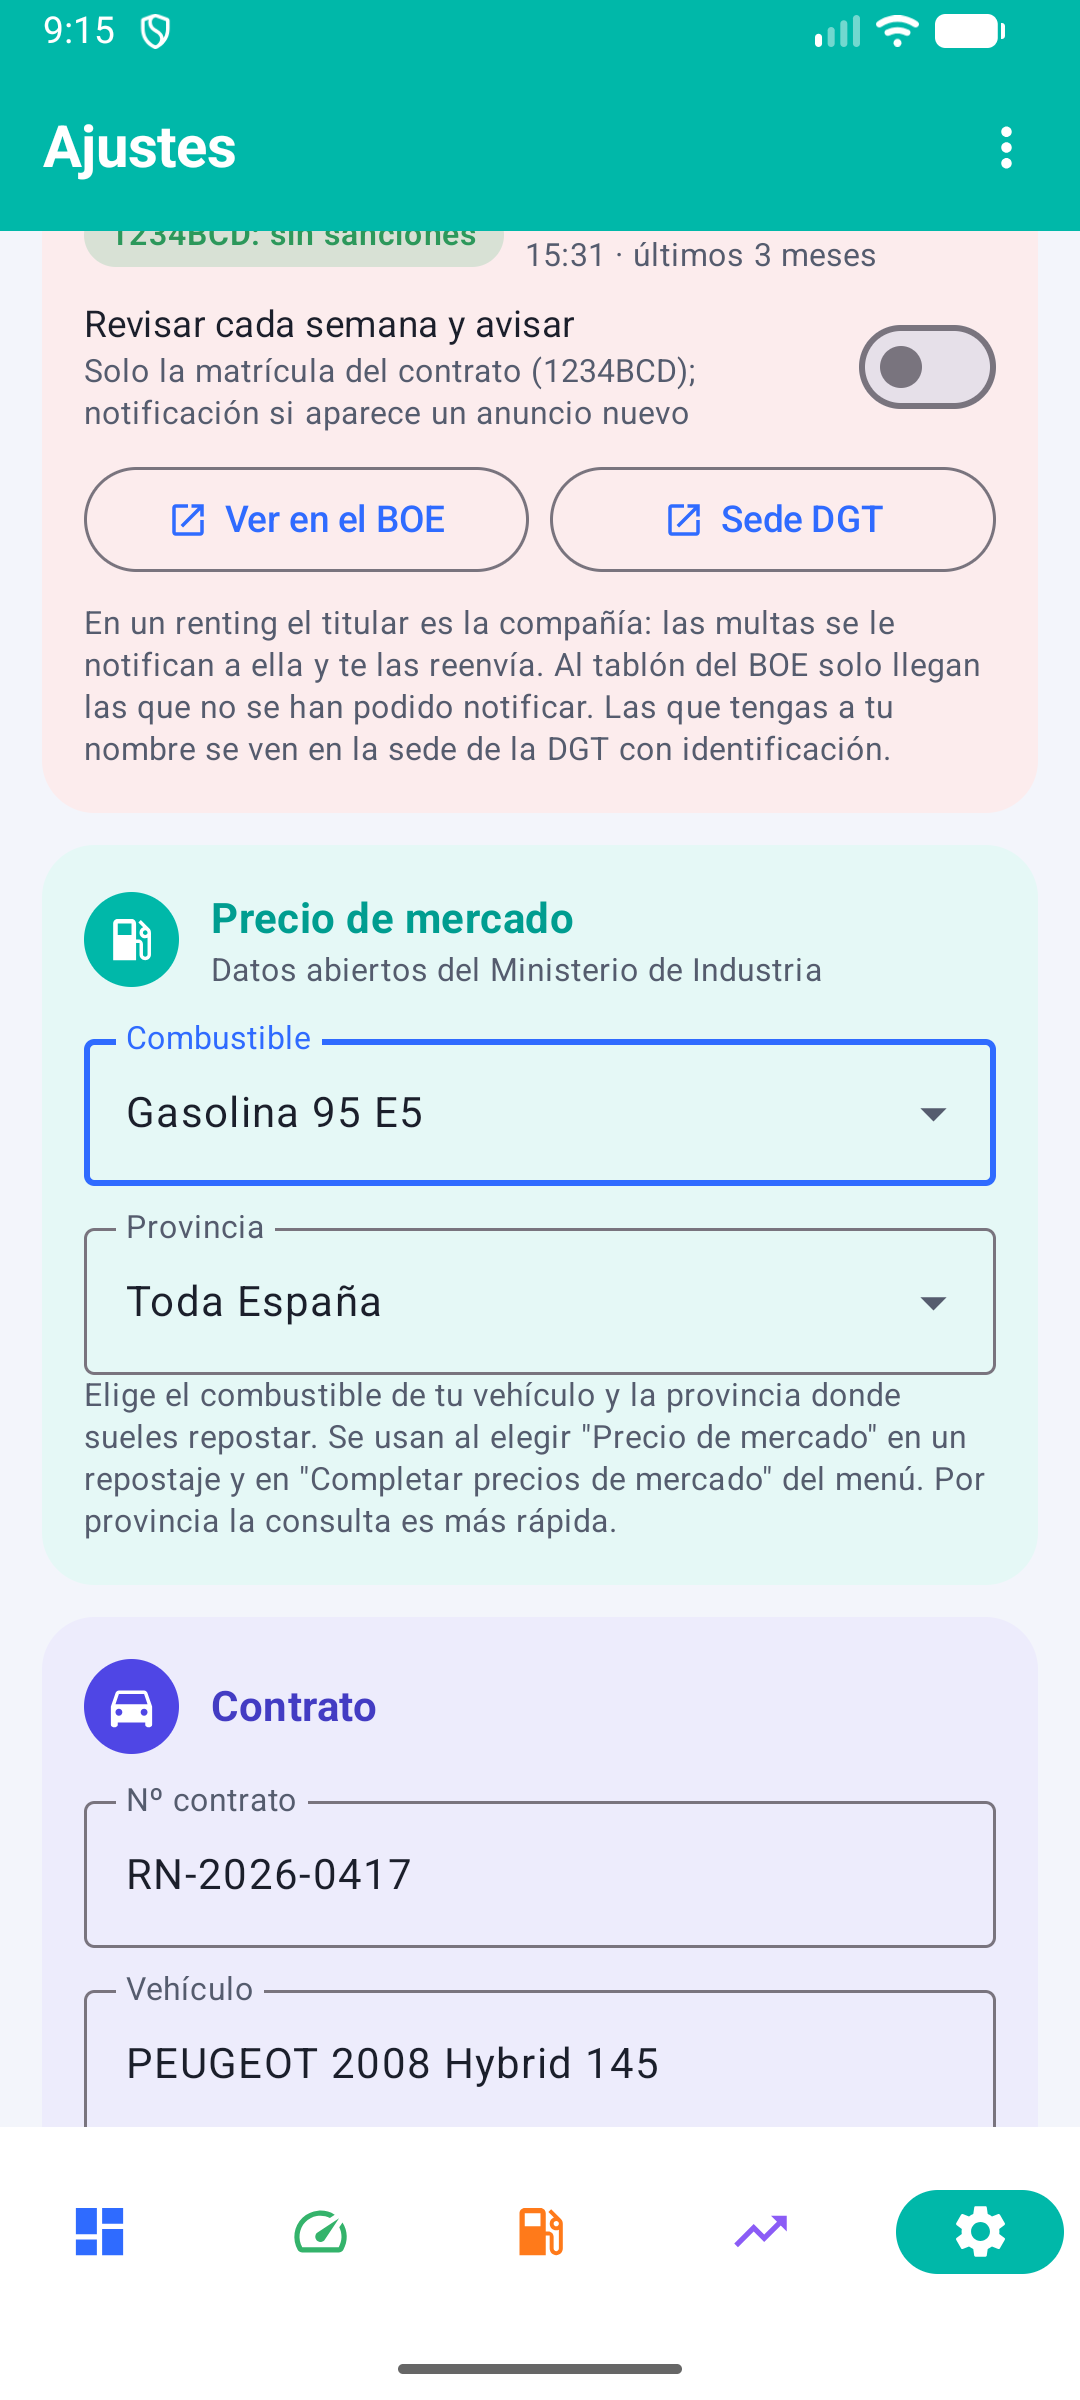
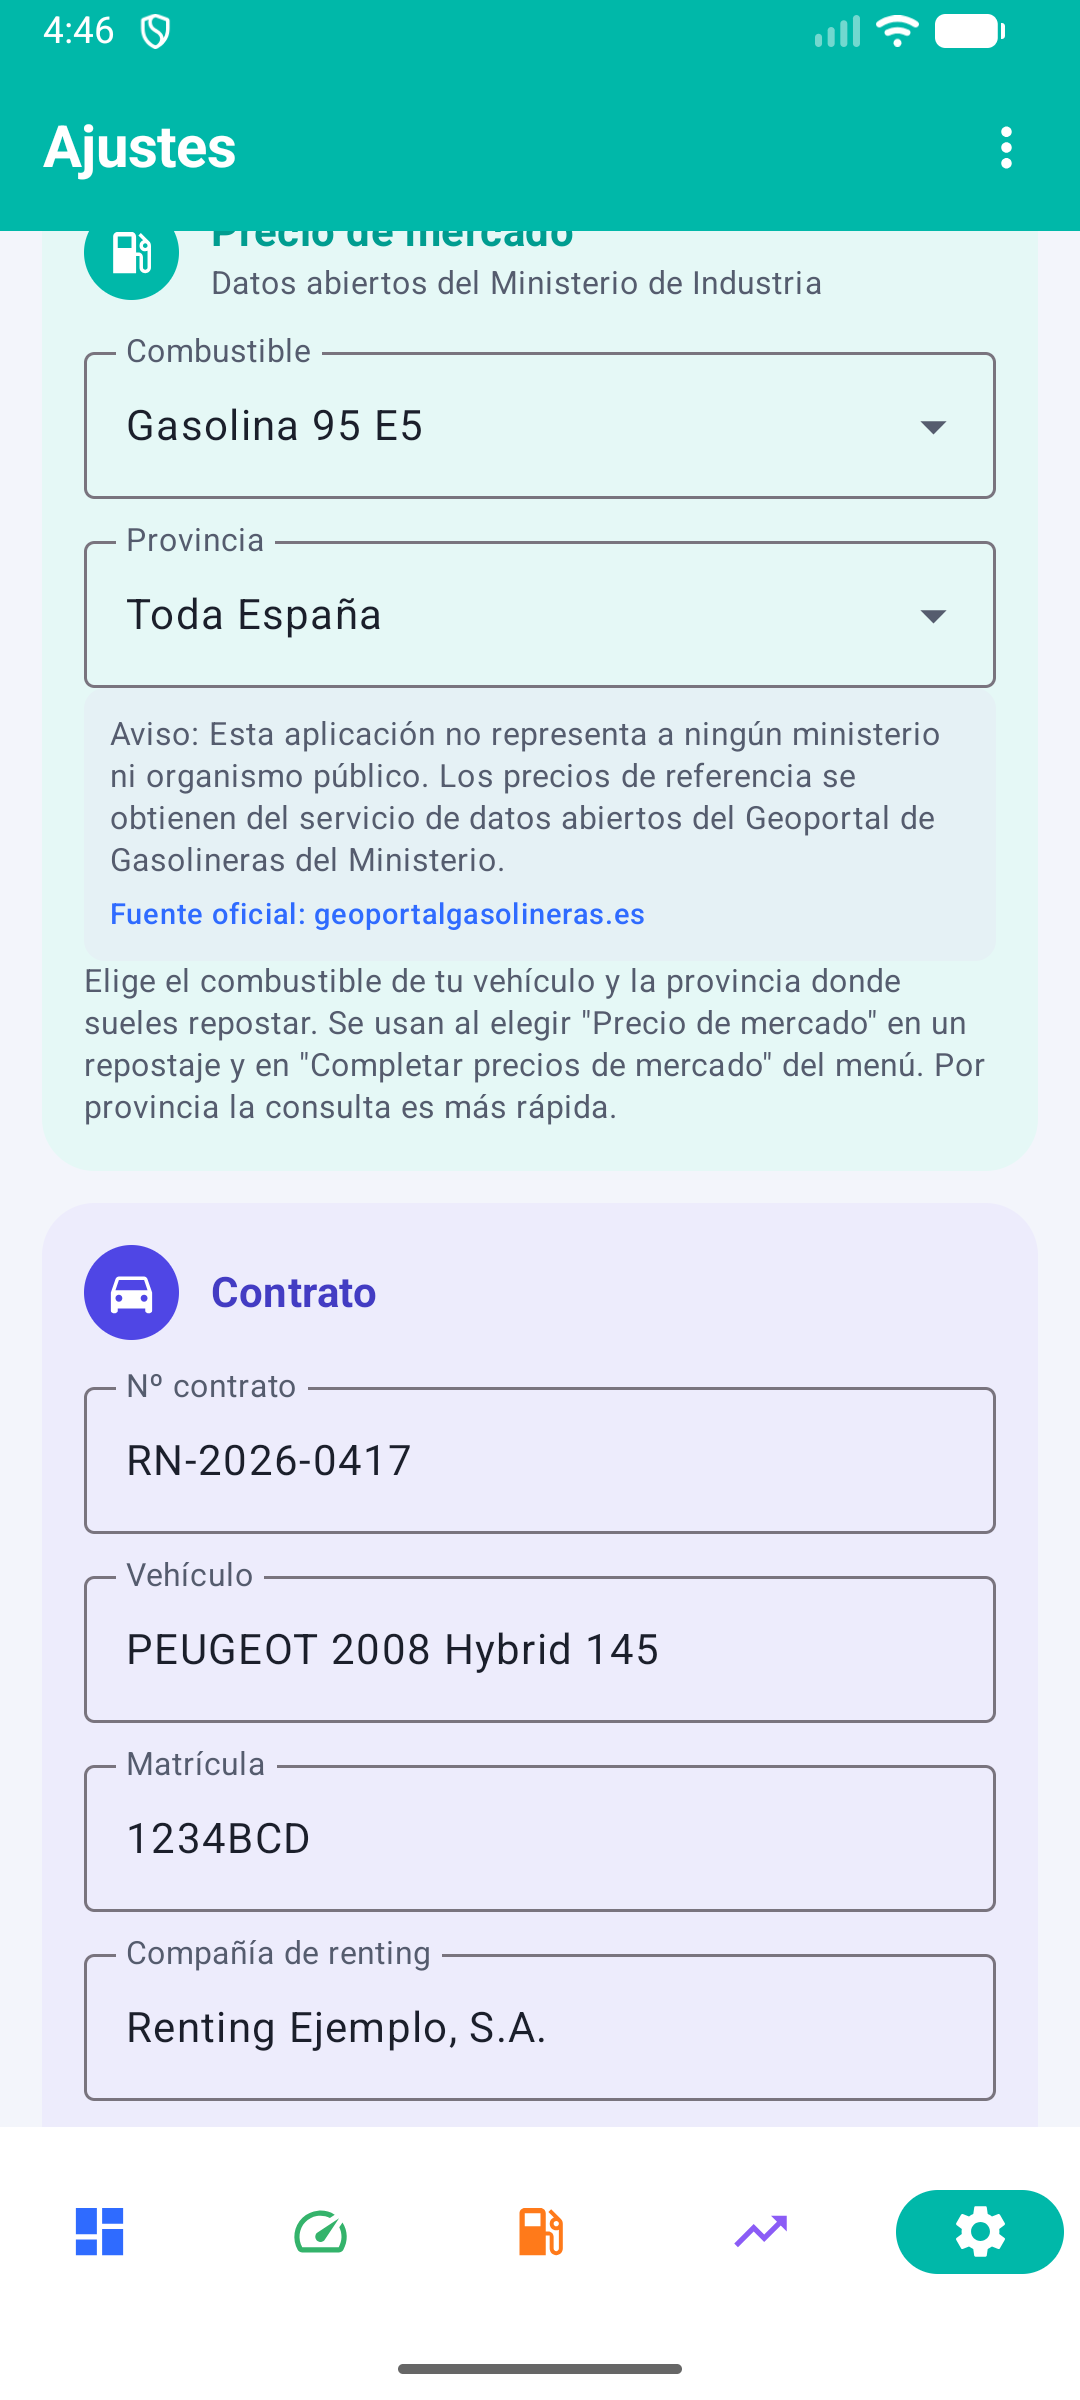
Versión 1.2.1: manual, web y capturas actualizados
- Manual: llamadas por el marcador (sin permiso de teléfono), nuevo apartado 10.5
  Aviso legal y fuentes, capturas de menú, multas y precio de mercado con los avisos.
- docs_web.py incorpora los cambios hechos a mano en docs/index.html (aviso de app
  independiente, fuentes oficiales) y lee la versión de build.gradle.kts.

diff --git a/docs/index.html b/docs/index.html
@@ -76,7 +76,7 @@
         </a>
         <a class="btn pdf" href="https://github.com/manursan2026/seguimiento-renting/releases/latest/download/Manual_Seguimiento_Renting.pdf" download>
           <svg viewBox="0 0 24 24" fill="currentColor"><path d="M14 2H6a2 2 0 0 0-2 2v16a2 2 0 0 0 2 2h12a2 2 0 0 0 2-2V8l-6-6zm-1 7V3.5L18.5 9H13zM8 13h8v2H8v-2zm0 4h8v2H8v-2z"/></svg>
-          <span>Manual de usuario<small>PDF · 4.2 MB</small></span>
+          <span>Manual de usuario<small>PDF · 4.3 MB</small></span>
         </a>
       </div>
     </div>
@@ -134,9 +134,10 @@
     <li>Si Android lo pide, permite <strong>instalar aplicaciones de esta fuente</strong> (navegador o gestor de archivos). Es una pregunta habitual para cualquier app fuera de Google Play.</li>
     <li>Pulsa <strong>Instalar</strong>. Al abrir la app por primera vez, ve a <strong>Ajustes</strong> y rellena los datos de tu contrato; hasta entonces no se pueden añadir mediciones.</li>
   </ol>
-  <div class="nota" style="margin-top:16px">Seguimiento Renting es una aplicación independiente de uso privado y <strong>no representa a ninguna entidad pública</strong> (como el BOE o la DGT). Solo usa Internet para consultar datos públicos abiertos de combustible (<a href="https://geoportalgasolineras.es/" target="_blank" rel="noopener">geoportalgasolineras.es</a>) y notificaciones públicas en el <a href="https://www.boe.es/tablon_edictal_unico/" target="_blank" rel="noopener">Tablón Edictal Único del BOE</a>.</div>
+  <div class="nota" style="margin-top:16px">Si Play Protect muestra un aviso, elige <em>Instalar de todos modos</em>. La app no requiere cuenta ni contiene anuncios.</div>
+  <div class="nota" style="margin-top:12px">Seguimiento Renting es una aplicación independiente de uso privado y <strong>no representa a ninguna entidad pública</strong> (como el BOE o la DGT). Solo usa Internet para consultar datos públicos abiertos de combustible (<a href="https://geoportalgasolineras.es/" target="_blank" rel="noopener">geoportalgasolineras.es</a>) y notificaciones públicas en el <a href="https://www.boe.es/tablon_edictal_unico/" target="_blank" rel="noopener">Tablón Edictal Único del BOE</a>.</div>
   <div class="req">
-    <span>Android 8.0+</span><span>Versión 1.2.1</span><span>Sin anuncios</span><span>Datos solo en tu dispositivo</span>
+    <span>Android 8.0+</span><span>Versión 1.2.1</span><span>22 MB</span><span>Sin anuncios</span><span>Datos solo en tu dispositivo</span>
   </div>
 </section>
 
@@ -146,12 +147,12 @@
   <div class="dl">
     <div class="card">
       <h3><i style="background:var(--amarillo);color:#1F2937">📱</i>Aplicación Android</h3>
-      <p>Fichero de instalación <code>SeguimientoRenting.apk</code> · versión 1.2.1</p>
+      <p>Fichero de instalación <code>SeguimientoRenting.apk</code> · versión 1.2.1 · 22 MB</p>
       <a class="btn apk" href="https://github.com/manursan2026/seguimiento-renting/releases/latest/download/SeguimientoRenting.apk" download>Descargar APK</a>
     </div>
     <div class="card">
       <h3><i style="background:var(--azul)">📘</i>Manual de usuario</h3>
-      <p>Guía completa con capturas de todas las pantallas · PDF</p>
+      <p>Guía completa con capturas de todas las pantallas · PDF · 4.3 MB</p>
       <a class="btn pdf" href="https://github.com/manursan2026/seguimiento-renting/releases/latest/download/Manual_Seguimiento_Renting.pdf" download>Descargar manual (PDF)</a>
     </div>
   </div>
@@ -161,7 +162,7 @@
 </main>
 
 <footer>
-  <div class="wrap">Seguimiento Renting · versión 1.2.1 · Esta aplicación no representa a ninguna entidad pública.<br>Fuentes oficiales: <a href="https://www.boe.es/tablon_edictal_unico/" target="_blank" rel="noopener">BOE (TEU)</a> · <a href="https://sede.dgt.gob.es/" target="_blank" rel="noopener">Sede DGT</a> · <a href="https://geoportalgasolineras.es/" target="_blank" rel="noopener">Geoportal Gasolineras MITECO</a><br>Código fuente en <a href="https://github.com/manursan2026/seguimiento-renting">GitHub</a> · <a href="https://github.com/manursan2026/seguimiento-renting/releases">Todas las versiones</a> · <a href="politica-de-privacidad.html">Política de Privacidad</a></div>
+  <div class="wrap">Seguimiento Renting · versión 1.2.1 · Página actualizada el 17/09/2026.<br>Las capturas mostradas utilizan datos ficticios de ejemplo.<br>Esta aplicación no representa a ninguna entidad pública. Fuentes oficiales: <a href="https://www.boe.es/tablon_edictal_unico/" target="_blank" rel="noopener">BOE (TEU)</a> · <a href="https://sede.dgt.gob.es/" target="_blank" rel="noopener">Sede DGT</a> · <a href="https://geoportalgasolineras.es/" target="_blank" rel="noopener">Geoportal de Gasolineras</a><br>Código fuente en <a href="https://github.com/manursan2026/seguimiento-renting">GitHub</a> · <a href="https://github.com/manursan2026/seguimiento-renting/releases">Todas las versiones</a> · <a href="politica-de-privacidad.html">Política de Privacidad</a></div>
 </footer>
 
 </body>

diff --git a/docs_manual.py b/docs_manual.py
@@ -118,7 +118,7 @@ class Doc(BaseDocTemplate):
         canv.line(doc.leftMargin, A4[1] - 1.5*cm, A4[0] - doc.rightMargin, A4[1] - 1.5*cm)
         canv.setFont("Arial", 8); canv.setFillColor(GRIS)
         canv.drawString(doc.leftMargin, A4[1] - 1.35*cm, "Seguimiento Renting · Manual de usuario")
-        canv.drawRightString(A4[0] - doc.rightMargin, A4[1] - 1.35*cm, "Versión 1.2 · %s" % datetime.date.today().strftime("%d/%m/%Y"))
+        canv.drawRightString(A4[0] - doc.rightMargin, A4[1] - 1.35*cm, "Versión 1.2.1 · %s" % datetime.date.today().strftime("%d/%m/%Y"))
         canv.drawCentredString(A4[0] / 2, 1.2*cm, str(doc.page))
         canv.restoreState()
     def afterFlowable(self, fl):
@@ -142,7 +142,7 @@ story += [Spacer(1, 2.2*cm), P("Seguimiento Renting", "title"), Spacer(1, 0.3*cm
 cover_tbl = Table([[shot("01_resumen_1", 4.4*cm), shot("30_proy_1", 4.4*cm), shot("20_rep_lista", 4.4*cm)]], colWidths=[5.2*cm]*3, hAlign="CENTER")
 cover_tbl.setStyle(TableStyle([("ALIGN", (0, 0), (-1, -1), "CENTER")]))
 story += [cover_tbl, Spacer(1, 0.8*cm),
-          Paragraph("Versión 1.2 · %s · Todas las capturas de este manual usan datos ficticios de ejemplo." % datetime.date.today().strftime("%B %Y").capitalize(), st["cap"])]
+          Paragraph("Versión 1.2.1 · %s · Todas las capturas de este manual usan datos ficticios de ejemplo." % datetime.date.today().strftime("%B %Y").capitalize(), st["cap"])]
 
 # ---------- Índice ----------
 toc = TableOfContents(); toc.levelStyles = [st["toc1"], st["toc2"]]; toc.dotsMinLevel = 0
@@ -318,9 +318,9 @@ story += H1("9. Pestaña Ajustes")
 story += H2("9.1 Apariencia")
 story += [P("<b>Sistema</b> (sigue el tema del dispositivo), <b>Claro</b> u <b>Oscuro</b>. El cambio es inmediato y se recuerda.")]
 story += H2("9.2 Compañía de renting")
-story += [P("Tarjeta de contacto con tu compañía de renting: botones de llamada directa a los teléfonos que hayas configurado y un botón de correo que abre un mensaje con el número de contrato en el asunto. "
+story += [P("Tarjeta de contacto con tu compañía de renting: botones con los teléfonos que hayas configurado y un botón de correo que abre un mensaje con el número de contrato en el asunto. "
             "El nombre de la compañía, los teléfonos y el correo se introducen en el bloque <i>Contrato</i> (apartado 9.6); mientras estén vacíos, la tarjeta lo indica. "
-            "La primera vez Android pide permiso para realizar llamadas; si se deniega, se abre el marcador con el número ya escrito.")]
+            "Al pulsar un teléfono se abre el marcador del sistema con el número ya escrito; solo tienes que confirmar la llamada. La aplicación no necesita permiso de teléfono.")]
 story += H2("9.3 Multas")
 story += [P("Consulta el <b>Tablón Edictal Único del BOE</b>, donde la DGT y los ayuntamientos publican las sanciones de tráfico que no han podido notificar (últimos 3 meses)."),
           bullets(["<b>Matrícula a consultar</b>: viene rellena con la del contrato; puedes escribir cualquier otra (las consultas de otras matrículas no se guardan).",
@@ -369,6 +369,11 @@ story += [P("<b>Guardar copia de seguridad</b> crea un fichero ZIP con nombre <i
             "Elige dónde guardarlo (Descargas, Drive…). <b>Restaurar copia de seguridad</b> abre el selector de archivos; al elegir el ZIP se sustituyen los datos actuales por los de la copia. "
             "Es la forma de pasar la aplicación a otro dispositivo o de recuperar los datos tras un borrado."),
           note("Haz una copia después de cada tanda de cambios importantes (por ejemplo tras <i>Completar precios de mercado</i>). La copia guarda el estado de ese momento; lo que anotes después no está en ella.", AZUL, "Recomendación")]
+story += H2("10.5 Aviso legal y fuentes")
+story += [P("Muestra un aviso que aclara que Seguimiento Renting es una aplicación independiente, de uso personal, sin vinculación con la DGT, el BOE ni ningún ministerio, "
+            "y enlaza a las fuentes oficiales de las que toma los datos: el Tablón Edictal Único del BOE, la sede electrónica de la DGT y el Geoportal de Gasolineras del Ministerio. "
+            "El mismo aviso aparece, en versión corta, en las tarjetas de <i>Multas</i> y <i>Precio de mercado</i> de Ajustes."),
+          figrow([("51_aviso_legal", "Aviso legal y fuentes oficiales")], w=7*cm)]
 
 # ---------- 11. Widget y notificaciones ----------
 story += H1("11. Widget y notificaciones")
@@ -405,7 +410,7 @@ story += [bullets(["Los datos (contrato, mediciones, repostajes, gastos, fotos y
                    "La <b>copia automática de Android</b> (Google Drive, si está activada en el dispositivo) incluye los datos y ajustes pero no las fotos; para las fotos usa la copia manual ZIP.",
                    "<b>Precio de mercado</b>: consulta los datos abiertos de precios de carburantes del Ministerio de Industria (Geoportal de gasolineras). Se envía únicamente la fecha, la provincia y el tipo de carburante.",
                    "<b>Multas</b>: consulta el buscador público del Tablón Edictal Único del BOE. Se envía únicamente la matrícula como texto de búsqueda.",
-                   "<b>Llamadas</b>: el permiso de teléfono solo se usa al pulsar un botón de llamada. <b>Notificaciones</b>: solo para los recordatorios que actives.",
+                   "<b>Llamadas</b>: los botones de teléfono abren el marcador del sistema; la aplicación no tiene permiso para llamar por sí misma. <b>Notificaciones</b>: solo para los recordatorios que actives.",
                    "Ambos servicios públicos pueden cambiar de formato; en ese caso la función afectada mostrará un error claro en lugar de un resultado incorrecto."])]
 
 # ---------- Apéndice A ----------
@@ -438,7 +443,7 @@ story += H1("Apéndice B. Ficha técnica")
 story += [table([["Característica", "Detalle"],
                  ["Plataforma", "Android 8.0 (API 26) o superior; teléfonos y tablets"],
                  ["Tamaño", "Aproximadamente 1,6 MB"],
-                 ["Permisos", "Internet (precios y BOE), notificaciones (recordatorios), teléfono (llamada directa), cámara (a través de la app de cámara del sistema; no requiere permiso propio)"],
+                 ["Permisos", "Internet (precios y BOE) y notificaciones (recordatorios). Las llamadas se hacen a través del marcador y las fotos a través de la app de cámara del sistema, sin permisos propios."],
                  ["Datos", "Fichero JSON en almacenamiento privado + carpeta de fotos; copia ZIP manual; copia automática de Android"],
                  ["Fuentes externas", "Precios de carburantes: sedeaplicaciones.minetur.gob.es · Multas: www.boe.es (Tablón Edictal Único)"],
                  ["Formatos de exportación", "PDF (informe de una página), XLSX (libro con fórmulas), ZIP (copia de seguridad)"],

diff --git a/docs_web.py b/docs_web.py
@@ -2,6 +2,8 @@ import json, os, sys, datetime
 # Uso: docs_web.py            -> docs/index.html con enlaces a las releases de GitHub (GitHub Pages)
 #      docs_web.py --local    -> ../Web/index.html con enlaces relativos (APK y PDF en la misma carpeta)
 LOCAL = "--local" in sys.argv
+import re
+VERSION = re.search(r'versionName = "([^"]+)"', open(os.path.join(os.path.dirname(os.path.abspath(__file__)), "app", "build.gradle.kts")).read()).group(1)
 REL = "https://github.com/manursan2026/seguimiento-renting/releases/latest/download/"
 APK_HREF = "SeguimientoRenting.apk" if LOCAL else REL + "SeguimientoRenting.apk"
 PDF_HREF = "Manual_Seguimiento_Renting.pdf" if LOCAL else REL + "Manual_Seguimiento_Renting.pdf"
@@ -149,9 +151,10 @@ html = f"""<!DOCTYPE html>
     <li>Si Android lo pide, permite <strong>instalar aplicaciones de esta fuente</strong> (navegador o gestor de archivos). Es una pregunta habitual para cualquier app fuera de Google Play.</li>
     <li>Pulsa <strong>Instalar</strong>. Al abrir la app por primera vez, ve a <strong>Ajustes</strong> y rellena los datos de tu contrato; hasta entonces no se pueden añadir mediciones.</li>
   </ol>
-  <div class="nota" style="margin-top:16px">Si Play Protect muestra un aviso, elige <em>Instalar de todos modos</em>. La app no requiere cuenta, no contiene anuncios y solo usa Internet para consultar el precio del combustible y el BOE.</div>
+  <div class="nota" style="margin-top:16px">Si Play Protect muestra un aviso, elige <em>Instalar de todos modos</em>. La app no requiere cuenta ni contiene anuncios.</div>
+  <div class="nota" style="margin-top:12px">Seguimiento Renting es una aplicación independiente de uso privado y <strong>no representa a ninguna entidad pública</strong> (como el BOE o la DGT). Solo usa Internet para consultar datos públicos abiertos de combustible (<a href="https://geoportalgasolineras.es/" target="_blank" rel="noopener">geoportalgasolineras.es</a>) y notificaciones públicas en el <a href="https://www.boe.es/tablon_edictal_unico/" target="_blank" rel="noopener">Tablón Edictal Único del BOE</a>.</div>
   <div class="req">
-    <span>Android 8.0+</span><span>Versión 1.2</span><span>{apk:.1f} MB</span><span>Sin anuncios</span><span>Datos solo en tu dispositivo</span>
+    <span>Android 8.0+</span><span>Versión {VERSION}</span><span>{apk:.0f} MB</span><span>Sin anuncios</span><span>Datos solo en tu dispositivo</span>
   </div>
 </section>
 
@@ -161,7 +164,7 @@ html = f"""<!DOCTYPE html>
   <div class="dl">
     <div class="card">
       <h3><i style="background:var(--amarillo);color:#1F2937">📱</i>Aplicación Android</h3>
-      <p>Fichero de instalación <code>SeguimientoRenting.apk</code> · versión 1.2 · {apk:.1f} MB</p>
+      <p>Fichero de instalación <code>SeguimientoRenting.apk</code> · versión {VERSION} · {apk:.0f} MB</p>
       <a class="btn apk" href="{APK_HREF}" download>Descargar APK</a>
     </div>
     <div class="card">
@@ -176,7 +179,7 @@ html = f"""<!DOCTYPE html>
 </main>
 
 <footer>
-  <div class="wrap">Seguimiento Renting · versión 1.2 · Página actualizada el {fecha}.<br>Las capturas mostradas utilizan datos ficticios de ejemplo.{enlaces}</div>
+  <div class="wrap">Seguimiento Renting · versión {VERSION} · Página actualizada el {fecha}.<br>Las capturas mostradas utilizan datos ficticios de ejemplo.<br>Esta aplicación no representa a ninguna entidad pública. Fuentes oficiales: <a href="https://www.boe.es/tablon_edictal_unico/" target="_blank" rel="noopener">BOE (TEU)</a> · <a href="https://sede.dgt.gob.es/" target="_blank" rel="noopener">Sede DGT</a> · <a href="https://geoportalgasolineras.es/" target="_blank" rel="noopener">Geoportal de Gasolineras</a>{enlaces}</div>
 </footer>
 
 </body>

diff --git a/README.md b/README.md
@@ -36,7 +36,7 @@ El APK está firmado con la clave de depuración: sirve para uso personal, pero 
 - **Repostajes**: histórico de repostajes (columnas I–L) con litros y precio/litro, y sección **Otros gastos**.
 - **Proyección**: escenario de km/día (N22): media real acumulada o valor manual, y tabla mensual
   hasta el fin de contrato.
-- **Ajustes**: apariencia, contacto de la compañía de renting (configurable; llamada directa y correo), consulta de multas (tablón del BOE con la matrícula y sede DGT), recordatorios, provincia para el precio de mercado, parámetros del contrato (M1:N15, IVA y % deducción) y borrado de todos los datos (contrato incluido), habilitado solo con una copia de seguridad de los datos actuales.
+- **Ajustes**: apariencia, contacto de la compañía de renting (configurable; teléfonos por el marcador y correo), consulta de multas (tablón del BOE con la matrícula y sede DGT), recordatorios, provincia para el precio de mercado, parámetros del contrato (M1:N15, IVA y % deducción) y borrado de todos los datos (contrato incluido), habilitado solo con una copia de seguridad de los datos actuales.
 - Menú `⋮`:
   - **Informe PDF** (se abre la hoja de compartir: WhatsApp, correo, Drive, imprimir…): estado en una página A4 — indicadores, gráfica, margen, liquidación,
     combustible y gastos, coste del contrato y últimas mediciones. Generado con `PdfDocument`, sin librerías.
@@ -45,6 +45,7 @@ El APK está firmado con la clave de depuración: sirve para uso personal, pero 
     rangos adaptados al número de filas. Se recalcula al abrirlo en Excel, Numbers o Google Sheets.
   - Completar precios de mercado (rellena el precio/litro de los repostajes que no lo tienen).
   - Guardar / restaurar copia de seguridad (ZIP con datos y fotos; también admite el JSON antiguo).
+  - Aviso legal y fuentes: la app es independiente (no es de la DGT, el BOE ni ningún ministerio) y enlaza a las fuentes oficiales.
 
 ## Datos
 Se guardan en el almacenamiento privado de la app. **Actualizar la app instalando un APK nuevo
